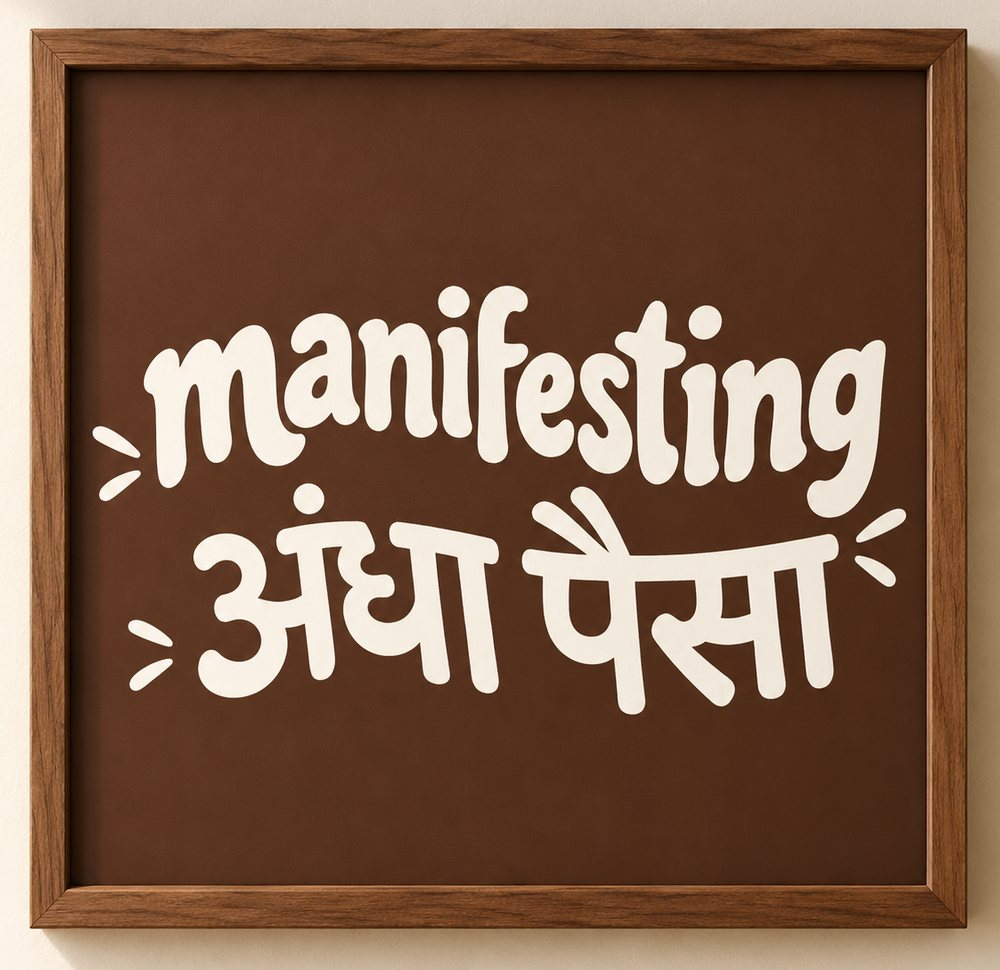
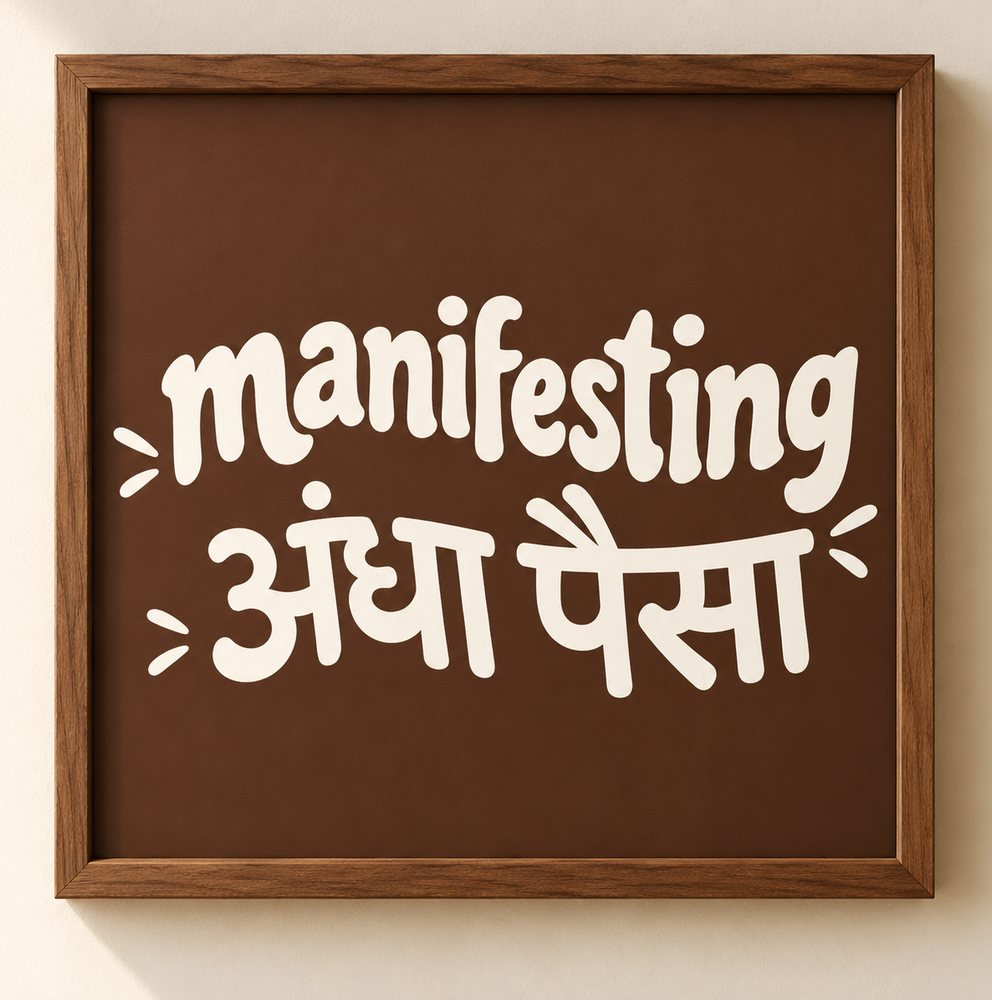
Bigger boxless hero frames, 3-card rail with More card, shuffled gallery with cartoons first, uncut frame crops
Claude-Session: https://claude.ai/code/session_0198W4SNzdcN2At6XsCPThv4

diff --git a/index.html b/index.html
@@ -1061,6 +1061,21 @@ body.gv main>*:not(#galleryView){display:none!important}
 .slide img{object-fit:contain!important;object-position:50% 50%!important;transform:none!important;filter:drop-shadow(0 22px 26px rgba(40,24,8,.28));animation:none!important}
 .more-frames{margin-right:6px;padding:12px 20px}
 @media(max-width:760px){.slides{aspect-ratio:5/6!important;border:1px solid var(--line)!important}.slide{inset:22px!important}.slideshow{width:100%!important;margin-inline:auto!important;max-width:340px!important}.more-frames{padding:10px 16px;font-size:10px}}
+
+/* hero: frames get the whole space, no box */
+.slides{background:none!important;border:0!important;box-shadow:none!important;padding:0!important;aspect-ratio:4/5!important;overflow:visible!important;animation:none!important}
+.slide{inset:0!important}
+.slide img{filter:drop-shadow(0 26px 30px rgba(40,24,8,.32))}
+.slideshow{max-width:520px!important}
+@media(max-width:900px){.slideshow{max-width:420px!important}}
+@media(max-width:760px){.slides{aspect-ratio:4/5!important;border:0!important}.slide{inset:0!important}.slideshow{max-width:340px!important}}
+/* rail: three cards in view, More card at the end */
+@media(min-width:761px){.pcard{flex:0 0 calc((100% - 56px)/3)!important}}
+.pcard.more-card{justify-content:center;align-items:center;text-align:center;gap:14px;padding:30px 22px;background:#16141a;color:#f7f4f1;text-decoration:none;border-color:#16141a}
+.more-card .mc-k{font-size:11px;letter-spacing:.2em;text-transform:uppercase;color:#d9b45a;font-weight:700}
+.more-card b{font-family:"Playfair Display",serif;font-size:clamp(24px,2.4vw,32px);font-weight:600;line-height:1.2}
+.more-card .mc-go{padding:14px 26px;border-radius:999px;background:#d9b45a;color:#16141a;font-size:11px;font-weight:700;letter-spacing:.16em;text-transform:uppercase;transition:transform .3s,background .3s}
+.more-card:hover .mc-go{transform:translateX(6px);background:#fff}
 </style>
 </head>
 <body>
@@ -1154,7 +1169,7 @@ body.gv main>*:not(#galleryView){display:none!important}
         <h2 class="fit rv" data-max="52" data-min="26">Frames for every story</h2>
         <p class="lede rv">Swipe through the frames. Ask about any frame on WhatsApp.</p>
       </div>
-      <div class="arrows"><a class="btn btn-ink more-frames" href="#gallery">More frames</a>
+      <div class="arrows">
         <button class="arrow" id="prev" type="button" aria-label="Previous frames"><svg viewBox="0 0 24 24"><path d="M15 5l-7 7 7 7"/></svg></button>
         <button class="arrow" id="next" type="button" aria-label="Next frames"><svg viewBox="0 0 24 24"><path d="M9 5l7 7-7 7"/></svg></button>
       </div>
@@ -1504,7 +1519,7 @@ body.gv main>*:not(#galleryView){display:none!important}
       <p class="kicker">The gallery</p>
       <h2 class="fit" data-max="52" data-min="26">More frames to explore</h2>
       <p class="lede" style="max-width:none">Close-ups of frames we have made, for cafés, gyms, offices, couples and gifts. Tap any frame for a closer look, or message us for its price. Every frame is made to order.</p>
-      <div class="gv-block" style="margin-top:30px"><div class="chips" id="chips" role="group" aria-label="Filter frames"><button class="chip" type="button" data-f="all" aria-pressed="true">All</button><button class="chip" type="button" data-f="corp" aria-pressed="false">Corporate</button><button class="chip" type="button" data-f="couple" aria-pressed="false">Couples and gifts</button><button class="chip" type="button" data-f="gym" aria-pressed="false">Gyms</button><button class="chip" type="button" data-f="cafe" aria-pressed="false">Cafés and restaurants</button><button class="chip" type="button" data-f="home" aria-pressed="false">Salons and homes</button></div><div class="gal-grid" id="masonry"><figure class="gal-tile" data-cat="corp" data-ar="0.7070" data-tilt><div class="gp"><img src="f-discipline.jpg" width="707" height="1000" alt="Discipline" loading="lazy"></div><figcaption><b>Discipline</b><span>Quiet words for a calm desk</span><a class="gprice" target="_blank" rel="noopener" href="https://wa.me/919004217186?text=Hi%20customizedartt%2C%20I%20saw%20the%20%22Discipline%22%20frame%20on%20your%20website.%20Could%20you%20share%20the%20price%20and%20how%20to%20order%3F">Ask for the price</a></figcaption></figure><figure class="gal-tile" data-cat="corp" data-ar="0.7430" data-tilt><div class="gp"><img src="f-goodideas.jpg" width="743" height="1000" alt="Better coffee" loading="lazy"></div><figcaption><b>Better coffee</b><span>Good ideas start with a good cup</span><a class="gprice" target="_blank" rel="noopener" href="https://wa.me/919004217186?text=Hi%20customizedartt%2C%20I%20saw%20the%20%22Better%20coffee%22%20frame%20on%20your%20website.%20Could%20you%20share%20the%20price%20and%20how%20to%20order%3F">Ask for the price</a></figcaption></figure><figure class="gal-tile" data-cat="corp" data-ar="0.8460" data-tilt><div class="gp"><img src="f-meetings.jpg" width="846" height="1000" alt="Meeting mood" loading="lazy"></div><figcaption><b>Meeting mood</b><span>Could have been an email</span><a class="gprice" target="_blank" rel="noopener" href="https://wa.me/919004217186?text=Hi%20customizedartt%2C%20I%20saw%20the%20%22Meeting%20mood%22%20frame%20on%20your%20website.%20Could%20you%20share%20the%20price%20and%20how%20to%20order%3F">Ask for the price</a></figcaption></figure><figure class="gal-tile" data-cat="corp" data-ar="0.8540" data-tilt><div class="gp"><img src="f-deadline.jpg" width="854" height="1000" alt="Deadline diet" loading="lazy"></div><figcaption><b>Deadline diet</b><span>Fuel for the busy desk</span><a class="gprice" target="_blank" rel="noopener" href="https://wa.me/919004217186?text=Hi%20customizedartt%2C%20I%20saw%20the%20%22Deadline%20diet%22%20frame%20on%20your%20website.%20Could%20you%20share%20the%20price%20and%20how%20to%20order%3F">Ask for the price</a></figcaption></figure><figure class="gal-tile" data-cat="corp" data-ar="0.7430" data-tilt><div class="gp"><img src="f-survivor.jpg" width="743" height="1000" alt="Office survivor" loading="lazy"></div><figcaption><b>Office survivor</b><span>Powered by coffee and Wi-Fi</span><a class="gprice" target="_blank" rel="noopener" href="https://wa.me/919004217186?text=Hi%20customizedartt%2C%20I%20saw%20the%20%22Office%20survivor%22%20frame%20on%20your%20website.%20Could%20you%20share%20the%20price%20and%20how%20to%20order%3F">Ask for the price</a></figcaption></figure><figure class="gal-tile" data-cat="corp" data-ar="0.7430" data-tilt><div class="gp"><img src="f-overthink.jpg" width="743" height="1000" alt="Overthinker" loading="lazy"></div><figcaption><b>Overthinker</b><span>A frame for the busy mind</span><a class="gprice" target="_blank" rel="noopener" href="https://wa.me/919004217186?text=Hi%20customizedartt%2C%20I%20saw%20the%20%22Overthinker%22%20frame%20on%20your%20website.%20Could%20you%20share%20the%20price%20and%20how%20to%20order%3F">Ask for the price</a></figcaption></figure><figure class="gal-tile" data-cat="corp" data-ar="0.7430" data-tilt><div class="gp"><img src="f-sameoffice.jpg" width="743" height="1000" alt="Same office" loading="lazy"></div><figcaption><b>Same office</b><span>Different day, new line</span><a class="gprice" target="_blank" rel="noopener" href="https://wa.me/919004217186?text=Hi%20customizedartt%2C%20I%20saw%20the%20%22Same%20office%22%20frame%20on%20your%20website.%20Could%20you%20share%20the%20price%20and%20how%20to%20order%3F">Ask for the price</a></figcaption></figure><figure class="gal-tile" data-cat="corp" data-ar="0.9710" data-tilt><div class="gp"><img src="f-ctrl.jpg" width="971" height="1000" alt="Reset button" loading="lazy"></div><figcaption><b>Reset button</b><span>Control. Alter. Delete</span><a class="gprice" target="_blank" rel="noopener" href="https://wa.me/919004217186?text=Hi%20customizedartt%2C%20I%20saw%20the%20%22Reset%20button%22%20frame%20on%20your%20website.%20Could%20you%20share%20the%20price%20and%20how%20to%20order%3F">Ask for the price</a></figcaption></figure><figure class="gal-tile" data-cat="corp" data-ar="0.7320" data-tilt><div class="gp"><img src="f-creative.jpg" width="732" height="1000" alt="Creative mode" loading="lazy"></div><figcaption><b>Creative mode</b><span>For studios that switch on</span><a class="gprice" target="_blank" rel="noopener" href="https://wa.me/919004217186?text=Hi%20customizedartt%2C%20I%20saw%20the%20%22Creative%20mode%22%20frame%20on%20your%20website.%20Could%20you%20share%20the%20price%20and%20how%20to%20order%3F">Ask for the price</a></figcaption></figure><figure class="gal-tile" data-cat="corp" data-ar="0.7700" data-tilt><div class="gp"><img src="f-monkey.jpg" width="770" height="1000" alt="Office mood" loading="lazy"></div><figcaption><b>Office mood</b><span>The desk, in good humour</span><a class="gprice" target="_blank" rel="noopener" href="https://wa.me/919004217186?text=Hi%20customizedartt%2C%20I%20saw%20the%20%22Office%20mood%22%20frame%20on%20your%20website.%20Could%20you%20share%20the%20price%20and%20how%20to%20order%3F">Ask for the price</a></figcaption></figure><figure class="gal-tile" data-cat="corp" data-ar="0.8333" data-tilt><div class="gp"><img src="hero-hungry.jpg" width="900" height="1080" alt="Stay hungry" loading="lazy"></div><figcaption><b>Stay hungry</b><span>A line for the office wall</span><a class="gprice" target="_blank" rel="noopener" href="https://wa.me/919004217186?text=Hi%20customizedartt%2C%20I%20saw%20the%20%22Stay%20hungry%22%20frame%20on%20your%20website.%20Could%20you%20share%20the%20price%20and%20how%20to%20order%3F">Ask for the price</a></figcaption></figure><figure class="gal-tile" data-cat="corp" data-ar="0.8333" data-tilt><div class="gp"><img src="hero-secret.jpg" width="900" height="1080" alt="Getting started" loading="lazy"></div><figcaption><b>Getting started</b><span>The secret of getting ahead</span><a class="gprice" target="_blank" rel="noopener" href="https://wa.me/919004217186?text=Hi%20customizedartt%2C%20I%20saw%20the%20%22Getting%20started%22%20frame%20on%20your%20website.%20Could%20you%20share%20the%20price%20and%20how%20to%20order%3F">Ask for the price</a></figcaption></figure><figure class="gal-tile" data-cat="corp" data-ar="1.5005" data-tilt><div class="gp"><img src="space-three-posters.jpg" width="1400" height="933" alt="Meeting room trio" loading="lazy"></div><figcaption><b>Meeting room trio</b><span>Three lines on a glass-side wall</span><a class="gprice" target="_blank" rel="noopener" href="https://wa.me/919004217186?text=Hi%20customizedartt%2C%20I%20saw%20the%20%22Meeting%20room%20trio%22%20frame%20on%20your%20website.%20Could%20you%20share%20the%20price%20and%20how%20to%20order%3F">Ask for the price</a></figcaption></figure><figure class="gal-tile" data-cat="couple" data-ar="0.7587" data-tilt><div class="gp"><img src="f-engage.jpg" width="739" height="974" alt="Save the date" loading="lazy"></div><figcaption><b>Save the date</b><span>An engagement, framed sweetly</span><a class="gprice" target="_blank" rel="noopener" href="https://wa.me/919004217186?text=Hi%20customizedartt%2C%20I%20saw%20the%20%22Save%20the%20date%22%20frame%20on%20your%20website.%20Could%20you%20share%20the%20price%20and%20how%20to%20order%3F">Ask for the price</a></figcaption></figure><figure class="gal-tile" data-cat="couple" data-ar="0.7270" data-tilt><div class="gp"><img src="f-fingerprint.jpg" width="727" height="1000" alt="Nikah keepsake" loading="lazy"></div><figcaption><b>Nikah keepsake</b><span>Two fingerprints, one heart</span><a class="gprice" target="_blank" rel="noopener" href="https://wa.me/919004217186?text=Hi%20customizedartt%2C%20I%20saw%20the%20%22Nikah%20keepsake%22%20frame%20on%20your%20website.%20Could%20you%20share%20the%20price%20and%20how%20to%20order%3F">Ask for the price</a></figcaption></figure><figure class="gal-tile" data-cat="couple" data-ar="0.7100" data-tilt><div class="gp"><img src="f-spotify.jpg" width="710" height="1000" alt="Our song" loading="lazy"></div><figcaption><b>Our song</b><span>Their story, with a scan code</span><a class="gprice" target="_blank" rel="noopener" href="https://wa.me/919004217186?text=Hi%20customizedartt%2C%20I%20saw%20the%20%22Our%20song%22%20frame%20on%20your%20website.%20Could%20you%20share%20the%20price%20and%20how%20to%20order%3F">Ask for the price</a></figcaption></figure><figure class="gal-tile" data-cat="couple" data-ar="0.8070" data-tilt><div class="gp"><img src="f-rings.jpg" width="807" height="1000" alt="The ring moment" loading="lazy"></div><figcaption><b>The ring moment</b><span>The day it began</span><a class="gprice" target="_blank" rel="noopener" href="https://wa.me/919004217186?text=Hi%20customizedartt%2C%20I%20saw%20the%20%22The%20ring%20moment%22%20frame%20on%20your%20website.%20Could%20you%20share%20the%20price%20and%20how%20to%20order%3F">Ask for the price</a></figcaption></figure><figure class="gal-tile" data-cat="couple" data-ar="0.8460" data-tilt><div class="gp"><img src="f-caric-couple.jpg" width="846" height="1000" alt="Wedding caricature" loading="lazy"></div><figcaption><b>Wedding caricature</b><span>Laugh together, frame forever</span><a class="gprice" target="_blank" rel="noopener" href="https://wa.me/919004217186?text=Hi%20customizedartt%2C%20I%20saw%20the%20%22Wedding%20caricature%22%20frame%20on%20your%20website.%20Could%20you%20share%20the%20price%20and%20how%20to%20order%3F">Ask for the price</a></figcaption></figure><figure class="gal-tile" data-cat="couple" data-ar="0.7940" data-tilt><div class="gp"><img src="f-caric-sumit.jpg" width="794" height="1000" alt="Caricature gift" loading="lazy"></div><figcaption><b>Caricature gift</b><span>A toast to the one you love</span><a class="gprice" target="_blank" rel="noopener" href="https://wa.me/919004217186?text=Hi%20customizedartt%2C%20I%20saw%20the%20%22Caricature%20gift%22%20frame%20on%20your%20website.%20Could%20you%20share%20the%20price%20and%20how%20to%20order%3F">Ask for the price</a></figcaption></figure><figure class="gal-tile" data-cat="gym" data-ar="0.7390" data-tilt><div class="gp"><img src="f-gym.jpg" width="739" height="1000" alt="Gym humour" loading="lazy"></div><figcaption><b>Gym humour</b><span>A laugh before the last rep</span><a class="gprice" target="_blank" rel="noopener" href="https://wa.me/919004217186?text=Hi%20customizedartt%2C%20I%20saw%20the%20%22Gym%20humour%22%20frame%20on%20your%20website.%20Could%20you%20share%20the%20price%20and%20how%20to%20order%3F">Ask for the price</a></figcaption></figure><figure class="gal-tile" data-cat="gym" data-ar="1.1338" data-tilt><div class="gp"><img src="f-cant.jpg" width="1000" height="882" alt="Can’t? Can" loading="lazy"></div><figcaption><b>Can’t? Can</b><span>Kick out the T</span><a class="gprice" target="_blank" rel="noopener" href="https://wa.me/919004217186?text=Hi%20customizedartt%2C%20I%20saw%20the%20%22Can%E2%80%99t%3F%20Can%22%20frame%20on%20your%20website.%20Could%20you%20share%20the%20price%20and%20how%20to%20order%3F">Ask for the price</a></figcaption></figure><figure class="gal-tile" data-cat="gym" data-ar="0.8000" data-tilt><div class="gp"><img src="f-onepercent.jpg" width="800" height="1000" alt="1% better" loading="lazy"></div><figcaption><b>1% better</b><span>Small steps, big wins</span><a class="gprice" target="_blank" rel="noopener" href="https://wa.me/919004217186?text=Hi%20customizedartt%2C%20I%20saw%20the%20%221%25%20better%22%20frame%20on%20your%20website.%20Could%20you%20share%20the%20price%20and%20how%20to%20order%3F">Ask for the price</a></figcaption></figure><figure class="gal-tile" data-cat="cafe" data-ar="0.9735" data-tilt><div class="gp"><img src="f-chai.jpg" width="954" height="980" alt="Chai talk" loading="lazy"></div><figcaption><b>Chai talk</b><span>Warm lines for a chai counter</span><a class="gprice" target="_blank" rel="noopener" href="https://wa.me/919004217186?text=Hi%20customizedartt%2C%20I%20saw%20the%20%22Chai%20talk%22%20frame%20on%20your%20website.%20Could%20you%20share%20the%20price%20and%20how%20to%20order%3F">Ask for the price</a></figcaption></figure><figure class="gal-tile" data-cat="cafe" data-ar="0.8960" data-tilt><div class="gp"><img src="f-pasta.jpg" width="896" height="1000" alt="Pasta wall" loading="lazy"></div><figcaption><b>Pasta wall</b><span>A wall that makes them hungry</span><a class="gprice" target="_blank" rel="noopener" href="https://wa.me/919004217186?text=Hi%20customizedartt%2C%20I%20saw%20the%20%22Pasta%20wall%22%20frame%20on%20your%20website.%20Could%20you%20share%20the%20price%20and%20how%20to%20order%3F">Ask for the price</a></figcaption></figure><figure class="gal-tile" data-cat="cafe" data-ar="0.9960" data-tilt><div class="gp"><img src="f-coffee.jpg" width="996" height="1000" alt="Coffee order" loading="lazy"></div><figcaption><b>Coffee order</b><span>For the table that knows you</span><a class="gprice" target="_blank" rel="noopener" href="https://wa.me/919004217186?text=Hi%20customizedartt%2C%20I%20saw%20the%20%22Coffee%20order%22%20frame%20on%20your%20website.%20Could%20you%20share%20the%20price%20and%20how%20to%20order%3F">Ask for the price</a></figcaption></figure><figure class="gal-tile" data-cat="cafe" data-ar="0.6320" data-tilt><div class="gp"><img src="f-mirror.jpg" width="632" height="1000" alt="Café mirror" loading="lazy"></div><figcaption><b>Café mirror</b><span>Good coffee, brighter days</span><a class="gprice" target="_blank" rel="noopener" href="https://wa.me/919004217186?text=Hi%20customizedartt%2C%20I%20saw%20the%20%22Caf%C3%A9%20mirror%22%20frame%20on%20your%20website.%20Could%20you%20share%20the%20price%20and%20how%20to%20order%3F">Ask for the price</a></figcaption></figure><figure class="gal-tile" data-cat="cafe" data-ar="0.8333" data-tilt><div class="gp"><img src="hero-coffee.jpg" width="900" height="1080" alt="Walnut coffee frame" loading="lazy"></div><figcaption><b>Walnut coffee frame</b><span>Same coffee, higher standards</span><a class="gprice" target="_blank" rel="noopener" href="https://wa.me/919004217186?text=Hi%20customizedartt%2C%20I%20saw%20the%20%22Walnut%20coffee%20frame%22%20frame%20on%20your%20website.%20Could%20you%20share%20the%20price%20and%20how%20to%20order%3F">Ask for the price</a></figcaption></figure><figure class="gal-tile" data-cat="cafe" data-ar="1.2766" data-tilt><div class="gp"><img src="scene-cafe.jpg" width="1417" height="1110" alt="Café wall" loading="lazy"></div><figcaption><b>Café wall</b><span>Three frames, one counter</span><a class="gprice" target="_blank" rel="noopener" href="https://wa.me/919004217186?text=Hi%20customizedartt%2C%20I%20saw%20the%20%22Caf%C3%A9%20wall%22%20frame%20on%20your%20website.%20Could%20you%20share%20the%20price%20and%20how%20to%20order%3F">Ask for the price</a></figcaption></figure><figure class="gal-tile" data-cat="home" data-ar="0.7280" data-tilt><div class="gp"><img src="f-kinder.jpg" width="728" height="1000" alt="A kinder space" loading="lazy"></div><figcaption><b>A kinder space</b><span>Soft words for salons and homes</span><a class="gprice" target="_blank" rel="noopener" href="https://wa.me/919004217186?text=Hi%20customizedartt%2C%20I%20saw%20the%20%22A%20kinder%20space%22%20frame%20on%20your%20website.%20Could%20you%20share%20the%20price%20and%20how%20to%20order%3F">Ask for the price</a></figcaption></figure><figure class="gal-tile" data-cat="home" data-ar="0.7410" data-tilt><div class="gp"><img src="f-popart.jpg" width="741" height="1000" alt="Desi pop art" loading="lazy"></div><figcaption><b>Desi pop art</b><span>Attitude in a frame</span><a class="gprice" target="_blank" rel="noopener" href="https://wa.me/919004217186?text=Hi%20customizedartt%2C%20I%20saw%20the%20%22Desi%20pop%20art%22%20frame%20on%20your%20website.%20Could%20you%20share%20the%20price%20and%20how%20to%20order%3F">Ask for the price</a></figcaption></figure><figure class="gal-tile" data-cat="home" data-ar="1.0309" data-tilt><div class="gp"><img src="f-manifest.jpg" width="1000" height="970" alt="Manifesting" loading="lazy"></div><figcaption><b>Manifesting</b><span>Say it. Frame it</span><a class="gprice" target="_blank" rel="noopener" href="https://wa.me/919004217186?text=Hi%20customizedartt%2C%20I%20saw%20the%20%22Manifesting%22%20frame%20on%20your%20website.%20Could%20you%20share%20the%20price%20and%20how%20to%20order%3F">Ask for the price</a></figcaption></figure><figure class="gal-tile" data-cat="home" data-ar="1.5000" data-tilt><div class="gp"><img src="scene-salon.jpg" width="1536" height="1024" alt="Salon wall" loading="lazy"></div><figcaption><b>Salon wall</b><span>Mirror-side frames for a studio</span><a class="gprice" target="_blank" rel="noopener" href="https://wa.me/919004217186?text=Hi%20customizedartt%2C%20I%20saw%20the%20%22Salon%20wall%22%20frame%20on%20your%20website.%20Could%20you%20share%20the%20price%20and%20how%20to%20order%3F">Ask for the price</a></figcaption></figure></div></div>
+      <div class="gv-block" style="margin-top:30px"><div class="chips" id="chips" role="group" aria-label="Filter frames"><button class="chip" type="button" data-f="all" aria-pressed="true">All</button><button class="chip" type="button" data-f="corp" aria-pressed="false">Corporate</button><button class="chip" type="button" data-f="couple" aria-pressed="false">Couples and gifts</button><button class="chip" type="button" data-f="gym" aria-pressed="false">Gyms</button><button class="chip" type="button" data-f="cafe" aria-pressed="false">Cafés and restaurants</button><button class="chip" type="button" data-f="home" aria-pressed="false">Salons and homes</button></div><div class="gal-grid" id="masonry"><figure class="gal-tile" data-cat="couple" data-ar="0.8290" data-tilt><div class="gp"><img src="f-caric-couple.jpg" width="829" height="1000" alt="Wedding caricature" loading="lazy"></div><figcaption><b>Wedding caricature</b><span>Laugh together, frame forever</span><a class="gprice" target="_blank" rel="noopener" href="https://wa.me/919004217186?text=Hi%20customizedartt%2C%20I%20saw%20the%20%22Wedding%20caricature%22%20frame%20on%20your%20website.%20Could%20you%20share%20the%20price%20and%20how%20to%20order%3F">Ask for the price</a></figcaption></figure><figure class="gal-tile" data-cat="home" data-ar="0.7420" data-tilt><div class="gp"><img src="f-popart.jpg" width="742" height="1000" alt="Desi pop art" loading="lazy"></div><figcaption><b>Desi pop art</b><span>Attitude in a frame</span><a class="gprice" target="_blank" rel="noopener" href="https://wa.me/919004217186?text=Hi%20customizedartt%2C%20I%20saw%20the%20%22Desi%20pop%20art%22%20frame%20on%20your%20website.%20Could%20you%20share%20the%20price%20and%20how%20to%20order%3F">Ask for the price</a></figcaption></figure><figure class="gal-tile" data-cat="gym" data-ar="0.6970" data-tilt><div class="gp"><img src="f-gym.jpg" width="697" height="1000" alt="Gym humour" loading="lazy"></div><figcaption><b>Gym humour</b><span>A laugh before the last rep</span><a class="gprice" target="_blank" rel="noopener" href="https://wa.me/919004217186?text=Hi%20customizedartt%2C%20I%20saw%20the%20%22Gym%20humour%22%20frame%20on%20your%20website.%20Could%20you%20share%20the%20price%20and%20how%20to%20order%3F">Ask for the price</a></figcaption></figure><figure class="gal-tile" data-cat="couple" data-ar="0.7950" data-tilt><div class="gp"><img src="f-caric-sumit.jpg" width="795" height="1000" alt="Caricature gift" loading="lazy"></div><figcaption><b>Caricature gift</b><span>A toast to the one you love</span><a class="gprice" target="_blank" rel="noopener" href="https://wa.me/919004217186?text=Hi%20customizedartt%2C%20I%20saw%20the%20%22Caricature%20gift%22%20frame%20on%20your%20website.%20Could%20you%20share%20the%20price%20and%20how%20to%20order%3F">Ask for the price</a></figcaption></figure><figure class="gal-tile" data-cat="cafe" data-ar="0.9430" data-tilt><div class="gp"><img src="f-chai.jpg" width="943" height="1000" alt="Chai talk" loading="lazy"></div><figcaption><b>Chai talk</b><span>Warm lines for a chai counter</span><a class="gprice" target="_blank" rel="noopener" href="https://wa.me/919004217186?text=Hi%20customizedartt%2C%20I%20saw%20the%20%22Chai%20talk%22%20frame%20on%20your%20website.%20Could%20you%20share%20the%20price%20and%20how%20to%20order%3F">Ask for the price</a></figcaption></figure><figure class="gal-tile" data-cat="couple" data-ar="0.7580" data-tilt><div class="gp"><img src="f-engage.jpg" width="758" height="1000" alt="Save the date" loading="lazy"></div><figcaption><b>Save the date</b><span>An engagement, framed sweetly</span><a class="gprice" target="_blank" rel="noopener" href="https://wa.me/919004217186?text=Hi%20customizedartt%2C%20I%20saw%20the%20%22Save%20the%20date%22%20frame%20on%20your%20website.%20Could%20you%20share%20the%20price%20and%20how%20to%20order%3F">Ask for the price</a></figcaption></figure><figure class="gal-tile" data-cat="corp" data-ar="0.9400" data-tilt><div class="gp"><img src="f-ctrl.jpg" width="940" height="1000" alt="Reset button" loading="lazy"></div><figcaption><b>Reset button</b><span>Control. Alter. Delete</span><a class="gprice" target="_blank" rel="noopener" href="https://wa.me/919004217186?text=Hi%20customizedartt%2C%20I%20saw%20the%20%22Reset%20button%22%20frame%20on%20your%20website.%20Could%20you%20share%20the%20price%20and%20how%20to%20order%3F">Ask for the price</a></figcaption></figure><figure class="gal-tile" data-cat="corp" data-ar="0.7700" data-tilt><div class="gp"><img src="f-monkey.jpg" width="770" height="1000" alt="Office mood" loading="lazy"></div><figcaption><b>Office mood</b><span>The desk, in good humour</span><a class="gprice" target="_blank" rel="noopener" href="https://wa.me/919004217186?text=Hi%20customizedartt%2C%20I%20saw%20the%20%22Office%20mood%22%20frame%20on%20your%20website.%20Could%20you%20share%20the%20price%20and%20how%20to%20order%3F">Ask for the price</a></figcaption></figure><figure class="gal-tile" data-cat="couple" data-ar="0.7800" data-tilt><div class="gp"><img src="f-fingerprint.jpg" width="780" height="1000" alt="Nikah keepsake" loading="lazy"></div><figcaption><b>Nikah keepsake</b><span>Two fingerprints, one heart</span><a class="gprice" target="_blank" rel="noopener" href="https://wa.me/919004217186?text=Hi%20customizedartt%2C%20I%20saw%20the%20%22Nikah%20keepsake%22%20frame%20on%20your%20website.%20Could%20you%20share%20the%20price%20and%20how%20to%20order%3F">Ask for the price</a></figcaption></figure><figure class="gal-tile" data-cat="corp" data-ar="0.7430" data-tilt><div class="gp"><img src="f-goodideas.jpg" width="743" height="1000" alt="Better coffee" loading="lazy"></div><figcaption><b>Better coffee</b><span>Good ideas start with a good cup</span><a class="gprice" target="_blank" rel="noopener" href="https://wa.me/919004217186?text=Hi%20customizedartt%2C%20I%20saw%20the%20%22Better%20coffee%22%20frame%20on%20your%20website.%20Could%20you%20share%20the%20price%20and%20how%20to%20order%3F">Ask for the price</a></figcaption></figure><figure class="gal-tile" data-cat="gym" data-ar="1.0741" data-tilt><div class="gp"><img src="f-cant.jpg" width="1000" height="931" alt="Can’t? Can" loading="lazy"></div><figcaption><b>Can’t? Can</b><span>Kick out the T</span><a class="gprice" target="_blank" rel="noopener" href="https://wa.me/919004217186?text=Hi%20customizedartt%2C%20I%20saw%20the%20%22Can%E2%80%99t%3F%20Can%22%20frame%20on%20your%20website.%20Could%20you%20share%20the%20price%20and%20how%20to%20order%3F">Ask for the price</a></figcaption></figure><figure class="gal-tile" data-cat="cafe" data-ar="0.8760" data-tilt><div class="gp"><img src="f-pasta.jpg" width="876" height="1000" alt="Pasta wall" loading="lazy"></div><figcaption><b>Pasta wall</b><span>A wall that makes them hungry</span><a class="gprice" target="_blank" rel="noopener" href="https://wa.me/919004217186?text=Hi%20customizedartt%2C%20I%20saw%20the%20%22Pasta%20wall%22%20frame%20on%20your%20website.%20Could%20you%20share%20the%20price%20and%20how%20to%20order%3F">Ask for the price</a></figcaption></figure><figure class="gal-tile" data-cat="cafe" data-ar="0.6820" data-tilt><div class="gp"><img src="f-mirror.jpg" width="682" height="1000" alt="Café mirror" loading="lazy"></div><figcaption><b>Café mirror</b><span>Good coffee, brighter days</span><a class="gprice" target="_blank" rel="noopener" href="https://wa.me/919004217186?text=Hi%20customizedartt%2C%20I%20saw%20the%20%22Caf%C3%A9%20mirror%22%20frame%20on%20your%20website.%20Could%20you%20share%20the%20price%20and%20how%20to%20order%3F">Ask for the price</a></figcaption></figure><figure class="gal-tile" data-cat="gym" data-ar="0.8000" data-tilt><div class="gp"><img src="f-onepercent.jpg" width="800" height="1000" alt="1% better" loading="lazy"></div><figcaption><b>1% better</b><span>Small steps, big wins</span><a class="gprice" target="_blank" rel="noopener" href="https://wa.me/919004217186?text=Hi%20customizedartt%2C%20I%20saw%20the%20%221%25%20better%22%20frame%20on%20your%20website.%20Could%20you%20share%20the%20price%20and%20how%20to%20order%3F">Ask for the price</a></figcaption></figure><figure class="gal-tile" data-cat="home" data-ar="0.7310" data-tilt><div class="gp"><img src="f-kinder.jpg" width="731" height="1000" alt="A kinder space" loading="lazy"></div><figcaption><b>A kinder space</b><span>Soft words for salons and homes</span><a class="gprice" target="_blank" rel="noopener" href="https://wa.me/919004217186?text=Hi%20customizedartt%2C%20I%20saw%20the%20%22A%20kinder%20space%22%20frame%20on%20your%20website.%20Could%20you%20share%20the%20price%20and%20how%20to%20order%3F">Ask for the price</a></figcaption></figure><figure class="gal-tile" data-cat="corp" data-ar="0.8320" data-tilt><div class="gp"><img src="f-meetings.jpg" width="832" height="1000" alt="Meeting mood" loading="lazy"></div><figcaption><b>Meeting mood</b><span>Could have been an email</span><a class="gprice" target="_blank" rel="noopener" href="https://wa.me/919004217186?text=Hi%20customizedartt%2C%20I%20saw%20the%20%22Meeting%20mood%22%20frame%20on%20your%20website.%20Could%20you%20share%20the%20price%20and%20how%20to%20order%3F">Ask for the price</a></figcaption></figure><figure class="gal-tile" data-cat="couple" data-ar="0.7570" data-tilt><div class="gp"><img src="f-spotify.jpg" width="757" height="1000" alt="Our song" loading="lazy"></div><figcaption><b>Our song</b><span>Their story, with a scan code</span><a class="gprice" target="_blank" rel="noopener" href="https://wa.me/919004217186?text=Hi%20customizedartt%2C%20I%20saw%20the%20%22Our%20song%22%20frame%20on%20your%20website.%20Could%20you%20share%20the%20price%20and%20how%20to%20order%3F">Ask for the price</a></figcaption></figure><figure class="gal-tile" data-cat="corp" data-ar="0.7340" data-tilt><div class="gp"><img src="f-creative.jpg" width="734" height="1000" alt="Creative mode" loading="lazy"></div><figcaption><b>Creative mode</b><span>For studios that switch on</span><a class="gprice" target="_blank" rel="noopener" href="https://wa.me/919004217186?text=Hi%20customizedartt%2C%20I%20saw%20the%20%22Creative%20mode%22%20frame%20on%20your%20website.%20Could%20you%20share%20the%20price%20and%20how%20to%20order%3F">Ask for the price</a></figcaption></figure><figure class="gal-tile" data-cat="cafe" data-ar="0.9630" data-tilt><div class="gp"><img src="f-coffee.jpg" width="963" height="1000" alt="Coffee order" loading="lazy"></div><figcaption><b>Coffee order</b><span>For the table that knows you</span><a class="gprice" target="_blank" rel="noopener" href="https://wa.me/919004217186?text=Hi%20customizedartt%2C%20I%20saw%20the%20%22Coffee%20order%22%20frame%20on%20your%20website.%20Could%20you%20share%20the%20price%20and%20how%20to%20order%3F">Ask for the price</a></figcaption></figure><figure class="gal-tile" data-cat="corp" data-ar="0.8333" data-tilt><div class="gp"><img src="hero-hungry.jpg" width="900" height="1080" alt="Stay hungry" loading="lazy"></div><figcaption><b>Stay hungry</b><span>A line for the office wall</span><a class="gprice" target="_blank" rel="noopener" href="https://wa.me/919004217186?text=Hi%20customizedartt%2C%20I%20saw%20the%20%22Stay%20hungry%22%20frame%20on%20your%20website.%20Could%20you%20share%20the%20price%20and%20how%20to%20order%3F">Ask for the price</a></figcaption></figure><figure class="gal-tile" data-cat="home" data-ar="0.9920" data-tilt><div class="gp"><img src="f-manifest.jpg" width="992" height="1000" alt="Manifesting" loading="lazy"></div><figcaption><b>Manifesting</b><span>Say it. Frame it</span><a class="gprice" target="_blank" rel="noopener" href="https://wa.me/919004217186?text=Hi%20customizedartt%2C%20I%20saw%20the%20%22Manifesting%22%20frame%20on%20your%20website.%20Could%20you%20share%20the%20price%20and%20how%20to%20order%3F">Ask for the price</a></figcaption></figure><figure class="gal-tile" data-cat="corp" data-ar="0.8390" data-tilt><div class="gp"><img src="f-deadline.jpg" width="839" height="1000" alt="Deadline diet" loading="lazy"></div><figcaption><b>Deadline diet</b><span>Fuel for the busy desk</span><a class="gprice" target="_blank" rel="noopener" href="https://wa.me/919004217186?text=Hi%20customizedartt%2C%20I%20saw%20the%20%22Deadline%20diet%22%20frame%20on%20your%20website.%20Could%20you%20share%20the%20price%20and%20how%20to%20order%3F">Ask for the price</a></figcaption></figure><figure class="gal-tile" data-cat="couple" data-ar="0.8070" data-tilt><div class="gp"><img src="f-rings.jpg" width="807" height="1000" alt="The ring moment" loading="lazy"></div><figcaption><b>The ring moment</b><span>The day it began</span><a class="gprice" target="_blank" rel="noopener" href="https://wa.me/919004217186?text=Hi%20customizedartt%2C%20I%20saw%20the%20%22The%20ring%20moment%22%20frame%20on%20your%20website.%20Could%20you%20share%20the%20price%20and%20how%20to%20order%3F">Ask for the price</a></figcaption></figure><figure class="gal-tile" data-cat="corp" data-ar="0.7120" data-tilt><div class="gp"><img src="f-discipline.jpg" width="712" height="1000" alt="Discipline" loading="lazy"></div><figcaption><b>Discipline</b><span>Quiet words for a calm desk</span><a class="gprice" target="_blank" rel="noopener" href="https://wa.me/919004217186?text=Hi%20customizedartt%2C%20I%20saw%20the%20%22Discipline%22%20frame%20on%20your%20website.%20Could%20you%20share%20the%20price%20and%20how%20to%20order%3F">Ask for the price</a></figcaption></figure><figure class="gal-tile" data-cat="couple" data-ar="1.0942" data-tilt><div class="gp"><img src="couple.jpg" width="1312" height="1199" alt="Playing card frame" loading="lazy"></div><figcaption><b>Playing card frame</b><span>A couple photo in a red card design</span><a class="gprice" target="_blank" rel="noopener" href="https://wa.me/919004217186?text=Hi%20customizedartt%2C%20I%20saw%20the%20%22Playing%20card%20frame%22%20frame%20on%20your%20website.%20Could%20you%20share%20the%20price%20and%20how%20to%20order%3F">Ask for the price</a></figcaption></figure><figure class="gal-tile" data-cat="corp" data-ar="0.7430" data-tilt><div class="gp"><img src="f-survivor.jpg" width="743" height="1000" alt="Office survivor" loading="lazy"></div><figcaption><b>Office survivor</b><span>Powered by coffee and Wi-Fi</span><a class="gprice" target="_blank" rel="noopener" href="https://wa.me/919004217186?text=Hi%20customizedartt%2C%20I%20saw%20the%20%22Office%20survivor%22%20frame%20on%20your%20website.%20Could%20you%20share%20the%20price%20and%20how%20to%20order%3F">Ask for the price</a></figcaption></figure><figure class="gal-tile" data-cat="cafe" data-ar="0.8333" data-tilt><div class="gp"><img src="hero-coffee.jpg" width="900" height="1080" alt="Walnut coffee frame" loading="lazy"></div><figcaption><b>Walnut coffee frame</b><span>Same coffee, higher standards</span><a class="gprice" target="_blank" rel="noopener" href="https://wa.me/919004217186?text=Hi%20customizedartt%2C%20I%20saw%20the%20%22Walnut%20coffee%20frame%22%20frame%20on%20your%20website.%20Could%20you%20share%20the%20price%20and%20how%20to%20order%3F">Ask for the price</a></figcaption></figure><figure class="gal-tile" data-cat="cafe" data-ar="1.5000" data-tilt><div class="gp"><img src="cafe-quotes.jpg" width="1536" height="1024" alt="Café gallery wall" loading="lazy"></div><figcaption><b>Café gallery wall</b><span>Photos and words in matching frames</span><a class="gprice" target="_blank" rel="noopener" href="https://wa.me/919004217186?text=Hi%20customizedartt%2C%20I%20saw%20the%20%22Caf%C3%A9%20gallery%20wall%22%20frame%20on%20your%20website.%20Could%20you%20share%20the%20price%20and%20how%20to%20order%3F">Ask for the price</a></figcaption></figure><figure class="gal-tile" data-cat="corp" data-ar="0.7430" data-tilt><div class="gp"><img src="f-overthink.jpg" width="743" height="1000" alt="Overthinker" loading="lazy"></div><figcaption><b>Overthinker</b><span>A frame for the busy mind</span><a class="gprice" target="_blank" rel="noopener" href="https://wa.me/919004217186?text=Hi%20customizedartt%2C%20I%20saw%20the%20%22Overthinker%22%20frame%20on%20your%20website.%20Could%20you%20share%20the%20price%20and%20how%20to%20order%3F">Ask for the price</a></figcaption></figure><figure class="gal-tile" data-cat="home" data-ar="1.5000" data-tilt><div class="gp"><img src="scene-salon.jpg" width="1536" height="1024" alt="Salon wall" loading="lazy"></div><figcaption><b>Salon wall</b><span>Mirror-side frames for a studio</span><a class="gprice" target="_blank" rel="noopener" href="https://wa.me/919004217186?text=Hi%20customizedartt%2C%20I%20saw%20the%20%22Salon%20wall%22%20frame%20on%20your%20website.%20Could%20you%20share%20the%20price%20and%20how%20to%20order%3F">Ask for the price</a></figcaption></figure><figure class="gal-tile" data-cat="corp" data-ar="0.8333" data-tilt><div class="gp"><img src="hero-secret.jpg" width="900" height="1080" alt="Getting started" loading="lazy"></div><figcaption><b>Getting started</b><span>The secret of getting ahead</span><a class="gprice" target="_blank" rel="noopener" href="https://wa.me/919004217186?text=Hi%20customizedartt%2C%20I%20saw%20the%20%22Getting%20started%22%20frame%20on%20your%20website.%20Could%20you%20share%20the%20price%20and%20how%20to%20order%3F">Ask for the price</a></figcaption></figure><figure class="gal-tile" data-cat="home" data-ar="2.5000" data-tilt><div class="gp"><img src="cafe-wall-home.jpg" width="1600" height="640" alt="Lounge wall" loading="lazy"></div><figcaption><b>Lounge wall</b><span>Words and photos in mixed sizes</span><a class="gprice" target="_blank" rel="noopener" href="https://wa.me/919004217186?text=Hi%20customizedartt%2C%20I%20saw%20the%20%22Lounge%20wall%22%20frame%20on%20your%20website.%20Could%20you%20share%20the%20price%20and%20how%20to%20order%3F">Ask for the price</a></figcaption></figure><figure class="gal-tile" data-cat="corp" data-ar="0.7430" data-tilt><div class="gp"><img src="f-sameoffice.jpg" width="743" height="1000" alt="Same office" loading="lazy"></div><figcaption><b>Same office</b><span>Different day, new line</span><a class="gprice" target="_blank" rel="noopener" href="https://wa.me/919004217186?text=Hi%20customizedartt%2C%20I%20saw%20the%20%22Same%20office%22%20frame%20on%20your%20website.%20Could%20you%20share%20the%20price%20and%20how%20to%20order%3F">Ask for the price</a></figcaption></figure><figure class="gal-tile" data-cat="corp" data-ar="1.5005" data-tilt><div class="gp"><img src="space-three-posters.jpg" width="1400" height="933" alt="Meeting room trio" loading="lazy"></div><figcaption><b>Meeting room trio</b><span>Three lines on a glass-side wall</span><a class="gprice" target="_blank" rel="noopener" href="https://wa.me/919004217186?text=Hi%20customizedartt%2C%20I%20saw%20the%20%22Meeting%20room%20trio%22%20frame%20on%20your%20website.%20Could%20you%20share%20the%20price%20and%20how%20to%20order%3F">Ask for the price</a></figcaption></figure><figure class="gal-tile" data-cat="cafe" data-ar="1.2766" data-tilt><div class="gp"><img src="scene-cafe.jpg" width="1417" height="1110" alt="Café wall" loading="lazy"></div><figcaption><b>Café wall</b><span>Three frames, one counter</span><a class="gprice" target="_blank" rel="noopener" href="https://wa.me/919004217186?text=Hi%20customizedartt%2C%20I%20saw%20the%20%22Caf%C3%A9%20wall%22%20frame%20on%20your%20website.%20Could%20you%20share%20the%20price%20and%20how%20to%20order%3F">Ask for the price</a></figcaption></figure></div></div>
 
       <div class="gv-block">
         <h3>Or just the words</h3>
@@ -1623,9 +1638,6 @@ const FRAMES = [
   {img:'baby.jpg', name:'Kids keepsake frame', detail:'Newborn name, birth date, time, weight and height. Black border.', ask:'Kids keepsake frame, with name, birth date, time, weight and height'},
   {img:'dog.jpg', name:'Pet portrait frame', detail:'A pet photo with name, date and a short line. Walnut border.', ask:'Pet portrait frame with a photo, name, date and a short line'},
   {img:'family.jpg', name:'Family frame', detail:'A family photo with names and a short line about home. Walnut border.', ask:'Family frame with a photo, names and a short line'},
-  {img:'couple.jpg', name:'Playing card frame', detail:'A couple photo inside a red playing card design. Black border.', ask:'Playing card frame for a couple photo'},
-  {img:'cafe-quotes.jpg', name:'Café quote frame', detail:'Menu lines and mood quotes in matching frames. Black or oak.', ask:'Café quote frames, a matching set for the counter'},
-  {img:'cafe-wall-home.jpg', wide:true, name:'Home wall frame', detail:'Words and photos for living room walls. Mixed sizes.', ask:'Home wall frame set with words and photos'}
 ];
 const rail = document.getElementById('rail');
 rail.innerHTML = FRAMES.map(f=>`
@@ -1636,7 +1648,8 @@ rail.innerHTML = FRAMES.map(f=>`
       <p class="pdet">${f.detail}</p>
       <a class="btn" target="_blank" rel="noopener" href="https://wa.me/${WA}?text=${encodeURIComponent('Hi customizedartt, how much will this frame cost? '+f.ask+'.')}">Ask the price</a>
     </div>
-  </article>`).join('');
+  </article>`).join('') + `
+  <a class="pcard more-card" href="#gallery" data-tilt aria-label="See more frames"><span class="mc-k">Want to see more?</span><b>Browse every frame we have made</b><span class="mc-go">More frames &rarr;</span></a>`;
 const cardStep = () => {
   const c = rail.querySelector('.pcard'); return c ? c.getBoundingClientRect().width + 28 : 320;
 };
